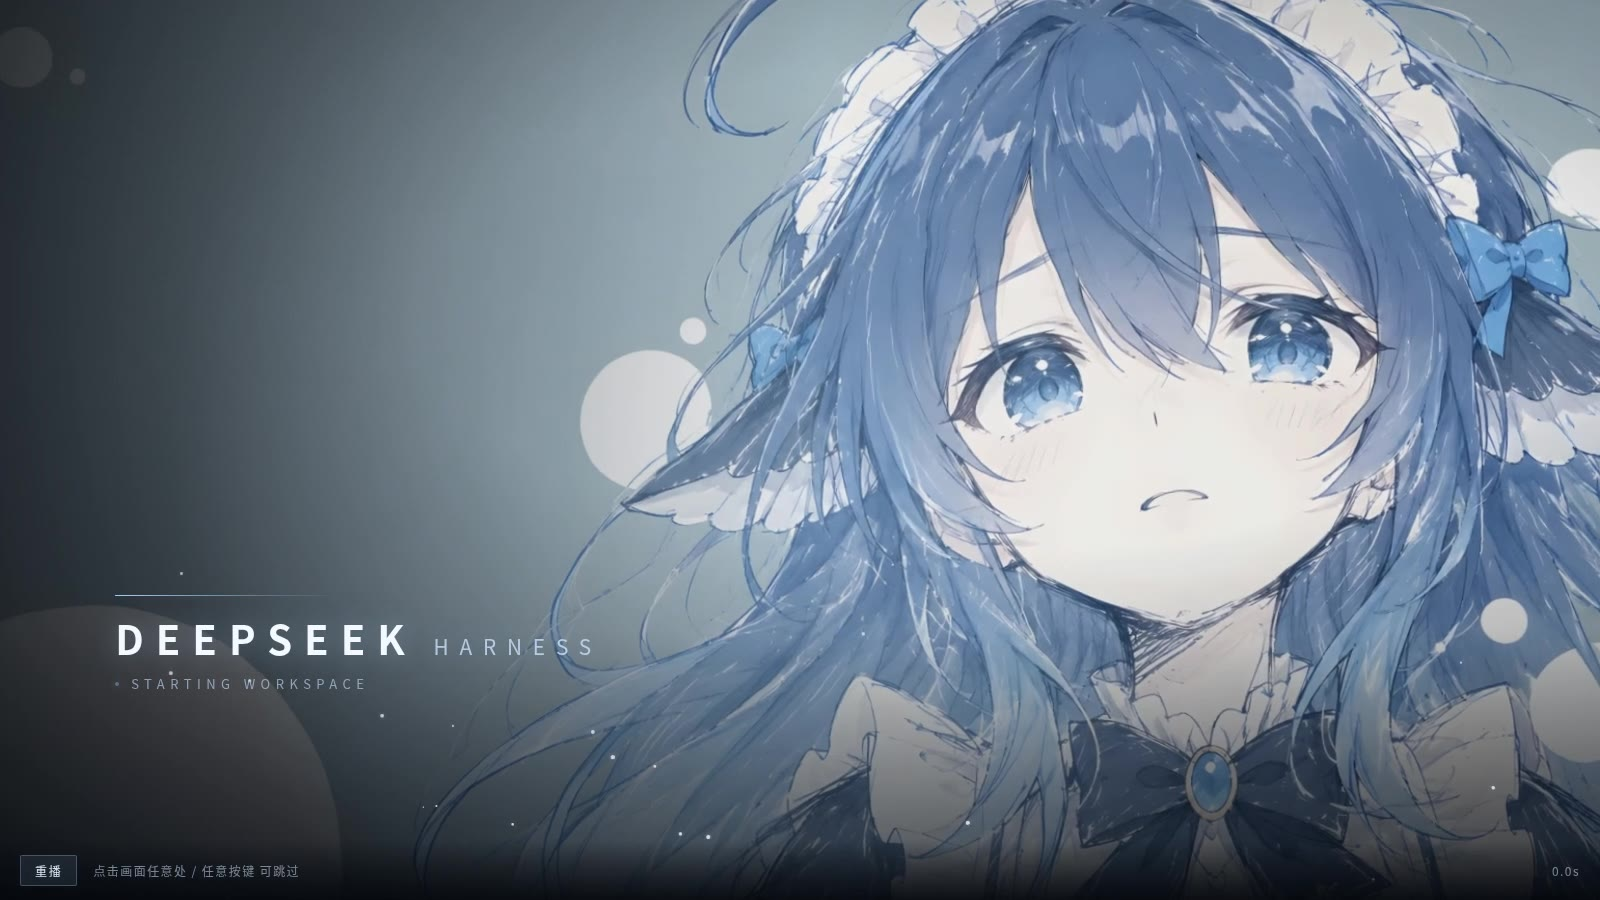
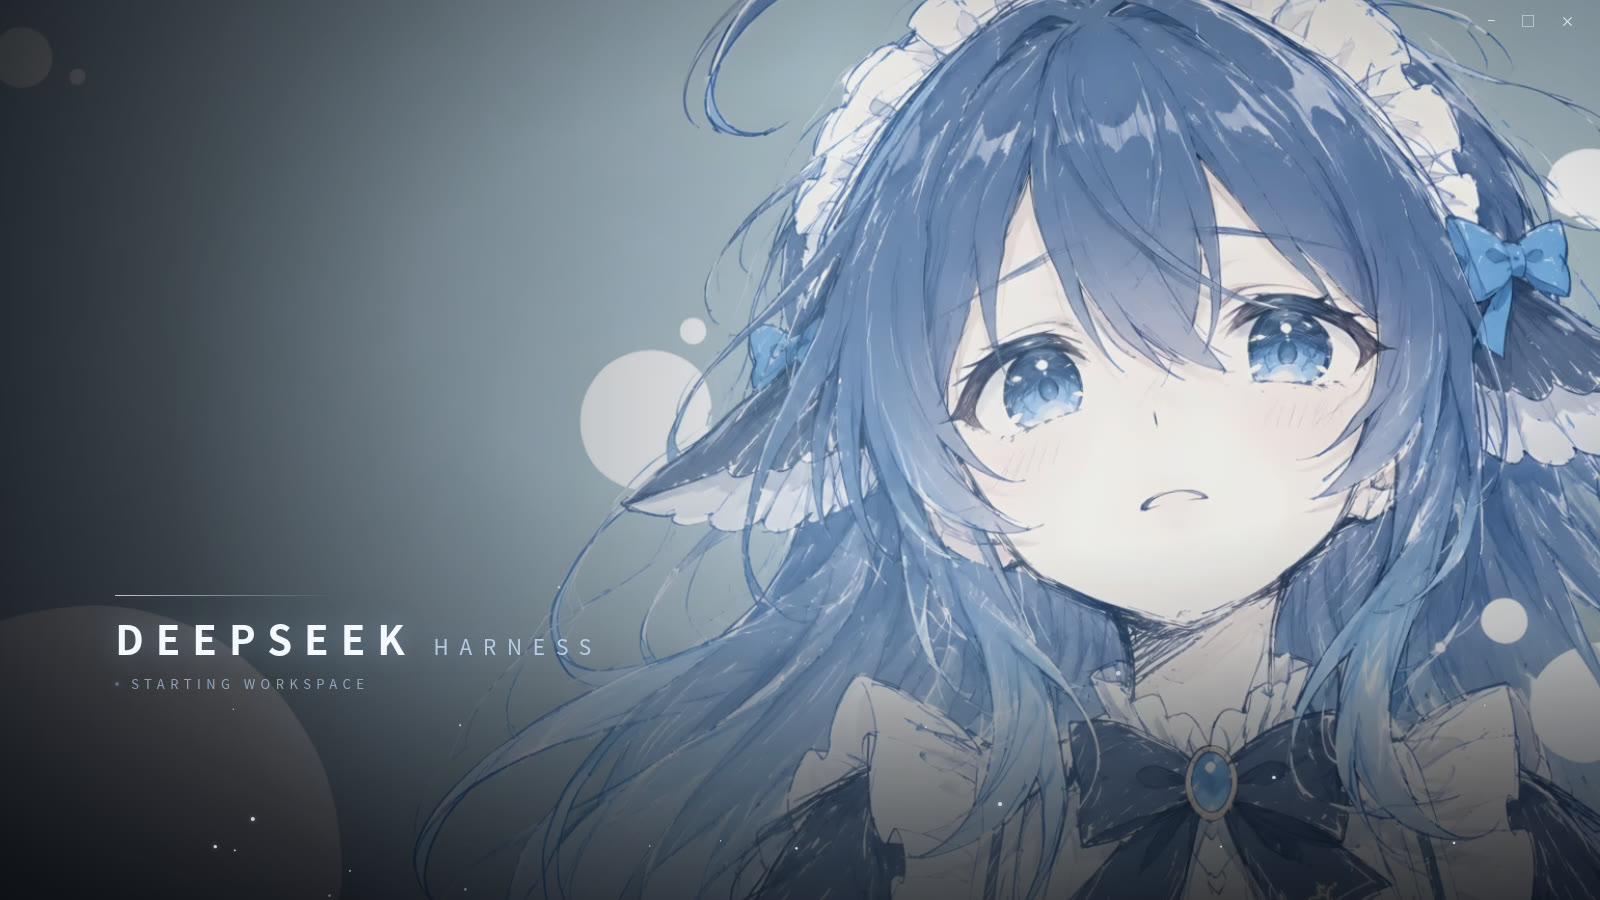
fix: fade sync, boot cover injection, preview matching the real launch

Changed region(s): [[0.25, 0.9333, 1.0, 1.0], [0.0, 0.9644, 0.1875, 0.9956]]

diff --git a/preview.html b/preview.html
@@ -43,6 +43,25 @@
     to  {transform:scale(1.06)}
   }
 
+  /* ---------- 0. 淡出之后露出的东西 ----------
+     真实插件淡出后露出的是 dsh 的工作区，这里用一个线框示意，
+     免得预览里淡完是一片黑、跟实际观感对不上。 */
+  #appmock{position:fixed;inset:0;background:#14161c;display:flex}
+  #appmock .sb{width:56px;background:#0f1115;border-right:1px solid rgba(255,255,255,.06)}
+  #appmock .main{flex:1;padding:36px 56px;display:flex;flex-direction:column;gap:14px;justify-content:center}
+  #appmock .line{height:10px;border-radius:5px;background:rgba(255,255,255,.07)}
+  #appmock .w80{width:80%} #appmock .w55{width:55%} #appmock .w35{width:35%}
+  #appmock .composer{margin-top:auto;height:54px;border-radius:12px;
+    background:rgba(255,255,255,.05);border:1px solid rgba(255,255,255,.08)}
+
+  /* ---------- 0b. 右上角窗口按钮（Windows 原生控件的位置和样式） ---------- */
+  /* 真实环境里这三个按钮由操作系统绘制，永远在最上层，动画淡出也不会消失。
+     所以这里放在 stage 外面，z-index 拉到最高。 */
+  .winbar{position:fixed;top:0;right:0;width:138px;height:40px;z-index:2147483647;
+    display:flex;align-items:center;justify-content:space-evenly;pointer-events:none}
+  .winbar span{color:rgba(255,255,255,.78);font:14px/1 "Segoe UI",system-ui,sans-serif;
+    letter-spacing:0}
+
   /* ---------- 1b. 头发层：离线渲染的透明 WebM，跟着 .bg 一起缩放/模糊 ---------- */
   .hair{
     position:absolute;inset:0;width:100%;height:100%;object-fit:cover;
@@ -178,6 +197,18 @@
 </style>
 </head>
 <body>
+<div id="appmock">
+  <div class="sb"></div>
+  <div class="main">
+    <div class="line w35"></div>
+    <div class="line w80"></div>
+    <div class="line w55"></div>
+    <div class="line w80"></div>
+    <div class="line w35"></div>
+    <div class="composer"></div>
+  </div>
+</div>
+
 <div id="stage">
   <div class="bg">
     <video class="hair" id="hair" src="assets/wall_25d.webm" autoplay muted playsinline preload="auto"></video>
@@ -193,6 +224,8 @@
   </div>
   <div class="flash"></div>
 </div>
+
+<div class="winbar"><span>&#8722;</span><span>&#9633;</span><span>&#215;</span></div>
 
 <div class="hud" id="hud">
   <button id="replay">重播</button>
@@ -265,14 +298,12 @@
     document.body.classList.remove('out');
     document.body.classList.remove('play');
     void stage.offsetWidth;             /* 强制回流，重启动画 */
-    hud.classList.remove('show');
     finished = false;
     document.body.classList.add('play');
     try { hair.currentTime = 0; hair.play(); } catch (e) {}
     t0 = performance.now();
     tick();
     timer = setTimeout(finish, DUR + 120);
-    setTimeout(function(){ if(!finished) hud.classList.add('show'); }, 1200);
   }
 
   function tick(){
@@ -288,12 +319,15 @@
     document.body.classList.add('out');
     try { hair.pause(); } catch (e) {}
     setTimeout(function(){ document.body.classList.remove('play'); }, 720);
-    hud.classList.add('show');
   }
   function skip(){ if(!finished) finish(); }
 
   document.getElementById('replay').addEventListener('click', function(e){
     e.stopPropagation(); play();
+  });
+  /* 预览控件平时不显示，按 H 才出来，免得挡住画面。 */
+  window.addEventListener('keydown', function (e) {
+    if (e.key === 'h' || e.key === 'H') hud.classList.toggle('show');
   });
   window.addEventListener('click', skip);
   window.addEventListener('keydown', skip);
@@ -308,7 +342,6 @@
     setTimeout(function(){
       try { hair.pause(); hair.currentTime = Math.min(ms, VIDEO * 1000 - 50) / 1000; } catch (e) {}
       freezeAt(ms);
-      hud.classList.add('show');
       document.body.classList.add('show-static');
     }, 120);
     var frozenMode = true;

diff --git a/lib/index.js b/lib/index.js
@@ -34,25 +34,28 @@ const name = "dsh-splash-fish";
 const inject = ["webServer"];
 
 /** 与 client 半边 .sf-root 的 background 完全一致，摘除时无接缝。 */
+/* 用真实元素而不是 html::before：伪元素依赖根元素的层叠上下文，
+   在宿主把启动壳画在很高层级时不一定压得住。真实 div 更可控。 */
 const COVER_CSS =
-  "html.dsh-sf-boot::before{" +
-  'content:"";position:fixed;inset:0;background:#05080d;' +
-  "z-index:2147483601;pointer-events:none" +
-  "}";
+  "#dsh-sf-cover{position:fixed;inset:0;background:#05080d;" +
+  "z-index:2147483646;pointer-events:none;transition:opacity .35s ease}" +
+  "#dsh-sf-cover.dsh-sf-off{opacity:0}";
 
 /* 只做一件事：立刻盖上，并提供摘下它的把手。没有 DOM 查询、没有轮询，
    出错也只是不盖（catch 兜住），不会影响页面自身。 */
+/* head 里执行时 body 还不存在，所以直接挂到 documentElement 上，
+   这样第一帧就有黑底。摘除时先淡出再移除，避免硬切。 */
 const COVER_JS =
   "(function(){try{" +
-  "var d=document.documentElement;" +
-  'if(d.dataset.dshSfBoot==="1")return;' +          /* 幂等：被注入两次也只盖一层 */
-  'd.dataset.dshSfBoot="1";' +
-  'd.classList.add("dsh-sf-boot");' +
-  "var done=false;" +
-  "function drop(){if(done)return;done=true;" +
-  'try{d.classList.remove("dsh-sf-boot")}catch(e){}}' +
+  'if(document.getElementById("dsh-sf-cover"))return;' +
+  'var c=document.createElement("div");c.id="dsh-sf-cover";' +
+  "(document.documentElement||document.body).appendChild(c);" +
+  "var gone=false;" +
+  "function drop(){if(gone)return;gone=true;" +
+  'c.className="dsh-sf-off";' +
+  "window.setTimeout(function(){if(c.parentNode)c.parentNode.removeChild(c)},420);}" +
   "window.__dshSfDrop=drop;" +
-  "window.setTimeout(drop,3500);" +                  /* 硬超时兜底 */
+  "window.setTimeout(drop,3500);" +
   "}catch(e){}})();";
 
 function apply(ctx) {

diff --git a/client.js b/client.js
@@ -27,8 +27,14 @@ window.__ModuleLoader__.load({
   /* 永不接收鼠标：即使这一层因为任何原因残留，也绝不能挡住界面操作。
      跳过改为在 window 上捕获相位监听（见 mountSplash）。 */
   pointer-events:none}
-.sf-root.sf-out{animation:sfExit 680ms cubic-bezier(.4,0,.25,1) forwards}
+.sf-root.sf-out{animation:sfExit 620ms cubic-bezier(.4,0,.25,1) forwards}
 @keyframes sfExit{from{opacity:1;transform:scale(1)}to{opacity:0;transform:scale(1.045)}}
+
+/* 收尾时字标和粒子提前退场。图片本身偏暗，整体淡出到一半时它已经看不见了，
+   但白色的字和亮点还会挂在那里，看起来像人物先走、文字留下。先让它们走。 */
+.sf-root.sf-out .sf-brand,
+.sf-root.sf-out .sf-parts{animation:sfFadeOut 240ms ease forwards}
+@keyframes sfFadeOut{from{opacity:1}to{opacity:0}}
 
 /* ---------- artwork: develop from the dark, then hold ----------------------
    starts at 1.14 and settles at 1.02 over 1.4 s, then only a very slow

diff --git a/README.md b/README.md
@@ -2,7 +2,7 @@
 
 DeepSeek Harness 的开屏动画插件。把自己的插画放进去，启动时从黑场里显影，带一点深度视差，然后淡出进工作区。
 
-![预览](preview/poster.jpg)
+<p align="center"><img src="preview/poster.jpg" width="860" alt="启动画面"></p>
 
 - [`preview/splash-25d-preview.mp4`](preview/splash-25d-preview.mp4) 完整启动动画，5.07 秒
 - [`preview/hair_wave_preview.mp4`](preview/hair_wave_preview.mp4) 上一版的头发位移层，3.6 秒，留着对照
